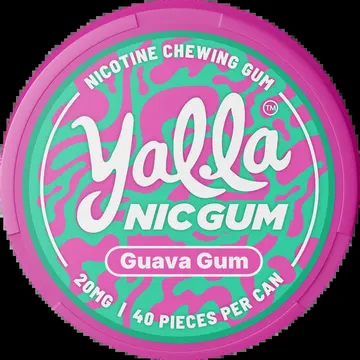
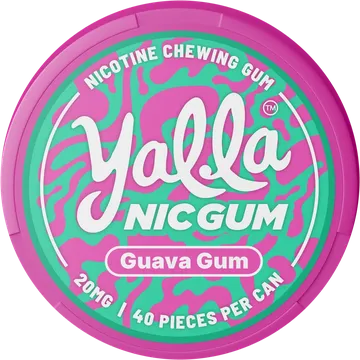
Print bar: Yalla tin cut out; the pile fans out as it scrolls into view on phones and desktop
Claude-Session: https://claude.ai/code/session_017A3jqbAQCYiZx7wCnKYi7q

Changed region(s): [[0.0, 0.0, 1.0, 1.0], [0.0, 0.0, 0.4583, 0.4583]]

diff --git a/index.html b/index.html
@@ -790,7 +790,7 @@
       </div>
       <a class="print-bar" href="projects/print.html" data-reveal>
         <span class="print-bar__copy"><b>Need print? <mark class="hl hl--orange">I do that too.</mark></b><span>Brochures, reports, packaging, signs and boards.</span></span>
-        <span class="print-bar__pile" aria-hidden="true"><img src="assets/print-strip/p1.webp" alt="Hospital charity impact report cover" width="255" height="360" loading="lazy" decoding="async" style="--i:0"><img src="assets/print-strip/p2.webp" alt="Yalla Nic Gum tin" width="360" height="360" loading="lazy" decoding="async" style="--i:1"><img src="assets/print-strip/p3.webp" alt="Property brochure cover" width="360" height="255" loading="lazy" decoding="async" style="--i:2"><img src="assets/print-strip/p4.webp" alt="Whitley Fund for Nature brochure spread" width="360" height="222" loading="lazy" decoding="async" style="--i:3"><img src="assets/print-strip/p5.webp" alt="Gowling WLG report cover" width="360" height="253" loading="lazy" decoding="async" style="--i:4"><img src="assets/print-strip/p6.webp" alt="Property site board" width="182" height="360" loading="lazy" decoding="async" style="--i:5"><img src="assets/print-strip/p7.webp" alt="Redbacks leaflet" width="357" height="360" loading="lazy" decoding="async" style="--i:6"></span>
+        <span class="print-bar__pile" aria-hidden="true"><img src="assets/print-strip/p1.webp" alt="Hospital charity impact report cover" width="255" height="360" loading="lazy" decoding="async" style="--i:0"><img class="is-cut" src="assets/print-strip/p2.webp" alt="Yalla Nic Gum tin" width="360" height="360" loading="lazy" decoding="async" style="--i:1"><img src="assets/print-strip/p3.webp" alt="Property brochure cover" width="360" height="255" loading="lazy" decoding="async" style="--i:2"><img src="assets/print-strip/p4.webp" alt="Whitley Fund for Nature brochure spread" width="360" height="222" loading="lazy" decoding="async" style="--i:3"><img src="assets/print-strip/p5.webp" alt="Gowling WLG report cover" width="360" height="253" loading="lazy" decoding="async" style="--i:4"><img src="assets/print-strip/p6.webp" alt="Property site board" width="182" height="360" loading="lazy" decoding="async" style="--i:5"><img src="assets/print-strip/p7.webp" alt="Redbacks leaflet" width="357" height="360" loading="lazy" decoding="async" style="--i:6"></span>
         <span class="print-bar__go">See print work <span aria-hidden="true">→</span></span>
       </a>
     </section>

diff --git a/assets/css/home.css b/assets/css/home.css
@@ -1545,3 +1545,9 @@ a.foot-marquee:hover span { color: transparent; -webkit-text-stroke: 2px var(--i
   .print-bar__go { justify-self: start; }
   .print-bar__pile img:nth-child(n+5) { display: none; }
 }
+.print-bar__pile img.is-cut { background: none; box-shadow: none; border-radius: 0; filter: drop-shadow(0 8px 10px rgb(24 24 26 / 0.3)); }
+/* the pile fans out as it comes into view (all sizes), and spreads a little more on hover */
+.print-bar__pile img { translate: calc((3 - var(--i)) * 14px) 0; rotate: 0deg; opacity: 0; transition: translate 0.7s var(--ease-out) calc(var(--i) * 60ms), rotate 0.7s var(--ease-out) calc(var(--i) * 60ms), opacity 0.4s calc(var(--i) * 60ms); }
+.print-bar.is-in .print-bar__pile img { translate: 0 0; rotate: calc((var(--i) - 3) * 3deg); opacity: 1; }
+.print-bar.is-in:hover .print-bar__pile img { translate: calc((var(--i) - 3) * 5px) -6px; }
+@media (prefers-reduced-motion: reduce) { .print-bar__pile img { opacity: 1; translate: none; transition: none; rotate: calc((var(--i) - 3) * 3deg); } }

diff --git a/assets/js/home.js b/assets/js/home.js
@@ -774,6 +774,16 @@
     });
   }
 
+  // ---------- Print bar: the pile of print work fans out when it comes into view (phones too) ----------
+  const printBar = $('.print-bar');
+  if (printBar) {
+    if (reduce || !('IntersectionObserver' in window)) printBar.classList.add('is-in');
+    else {
+      const io = new IntersectionObserver(([e]) => { if (e.isIntersecting) { printBar.classList.add('is-in'); io.disconnect(); } }, { threshold: 0.35 });
+      io.observe(printBar);
+    }
+  }
+
   // ---------- Prices: the dots under the phone swipe row follow the card in view ----------
   const hpRow = $('.hp-cards'), hpDots = $$('.hp-dots i');
   if (hpRow && hpDots.length) hpRow.addEventListener('scroll', () => {
